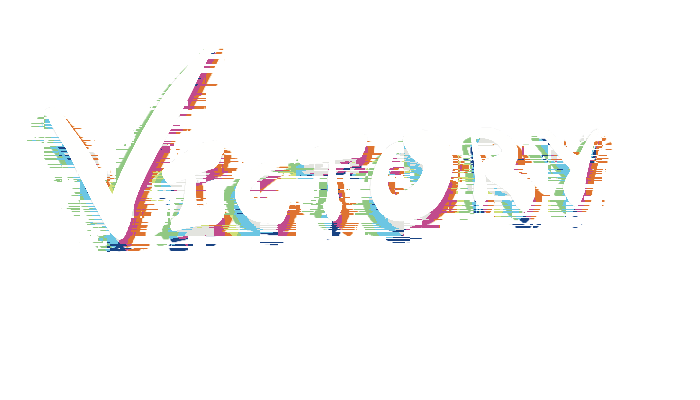
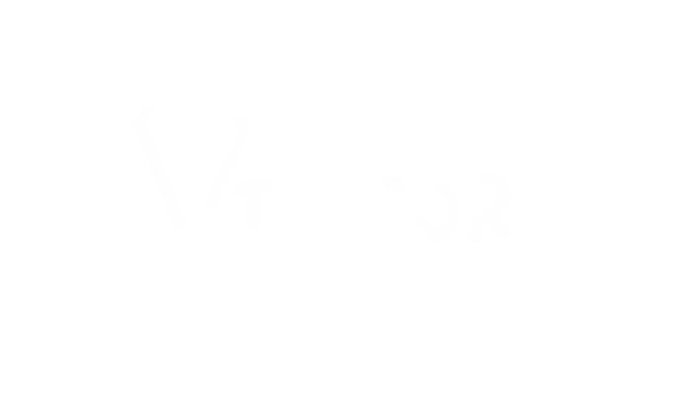
cambios

Changed region(s): [[0.06, 0.12, 0.87, 0.63]]

diff --git a/Juego/src/scenes/victory.js b/Juego/src/scenes/victory.js
@@ -16,22 +16,41 @@ export default class Victory extends Phaser.Scene {
 
 		const victory = this.add.image(this.sys.game.canvas.width / 2, 20, 'victoryImage').setOrigin(0.5, 0).setScale(1.2);
 
-		let GameOverButton = this.add.image(this.sys.game.canvas.width * 0.5, this.sys.game.canvas.height * 0.6, 'ExitToMainMenuButton').setScale(0.35).setInteractive().setVisible(false);
+		let GameOverButton = this.add.image(this.sys.game.canvas.width * 0.5, this.sys.game.canvas.height * 0.7, 'ExitToMainMenuButton').setScale(0.2).setInteractive().setVisible(false);
 
-		const dialogos = this.cache.json.get('VictoryDialog');
-		this.time.delayedCall(2000, () => {
-			this.changeToDialogScene({ sceneKey: this.scene.key, backgroundType: 'dark', dialogos: dialogos});
-			victory.setVisible(false);
+        const dialogos = this.cache.json.get('VictoryDialog');
 
-			this.add.text(this.sys.game.canvas.width * 0.5, this.sys.game.canvas.height * 0.5, 'END', {
-				fontSize: 90,
-				fontFamily: "PixelArt",
-				fill: '#FFFFFF',
-				align: 'left'
-			}).setOrigin(0.5, 0.5);
+        const animationContainer = document.getElementById('fullscreen-animation');
+        const animationFrame = document.getElementById('animation-frame');
+        let currentFrame = 0;
+        const frames = ['assets/map/map_boss/map_boss_1.png', 'assets/map/map_boss/map_boss_2.png'];
 
-			GameOverButton.setVisible(true);
-		});
+        this.time.delayedCall(2500, () => {
+            animationContainer.style.display = 'block';
+
+            const interval = setInterval(() => {
+                animationFrame.src = frames[currentFrame];
+                currentFrame = (currentFrame + 1) % frames.length; 
+            }, 100); 
+
+            setTimeout(() => {
+                clearInterval(interval);
+                animationContainer.style.display = 'none'; 
+
+                this.changeToDialogScene({ sceneKey: this.scene.key,backgroundType: 'dark',dialogos: dialogos });
+
+                this.add.text(this.sys.game.canvas.width * 0.5, this.sys.game.canvas.height * 0.5,'to be continued...',
+                    {
+                        fontSize: 70,
+                        fontFamily: "PixelArt",
+                        fill: '#FFFFFF',
+                        align: 'left'
+                    }
+                ).setOrigin(0.5, 0.5);
+                GameOverButton.setVisible(true);
+                victory.setVisible(false);
+            }, 1000);
+        });
 
 		GameOverButton.on('pointerup', () => {
 			this.scene.start('title', { player: data.player, tries: data.tries }); //Cambiamos a la escena de juego
